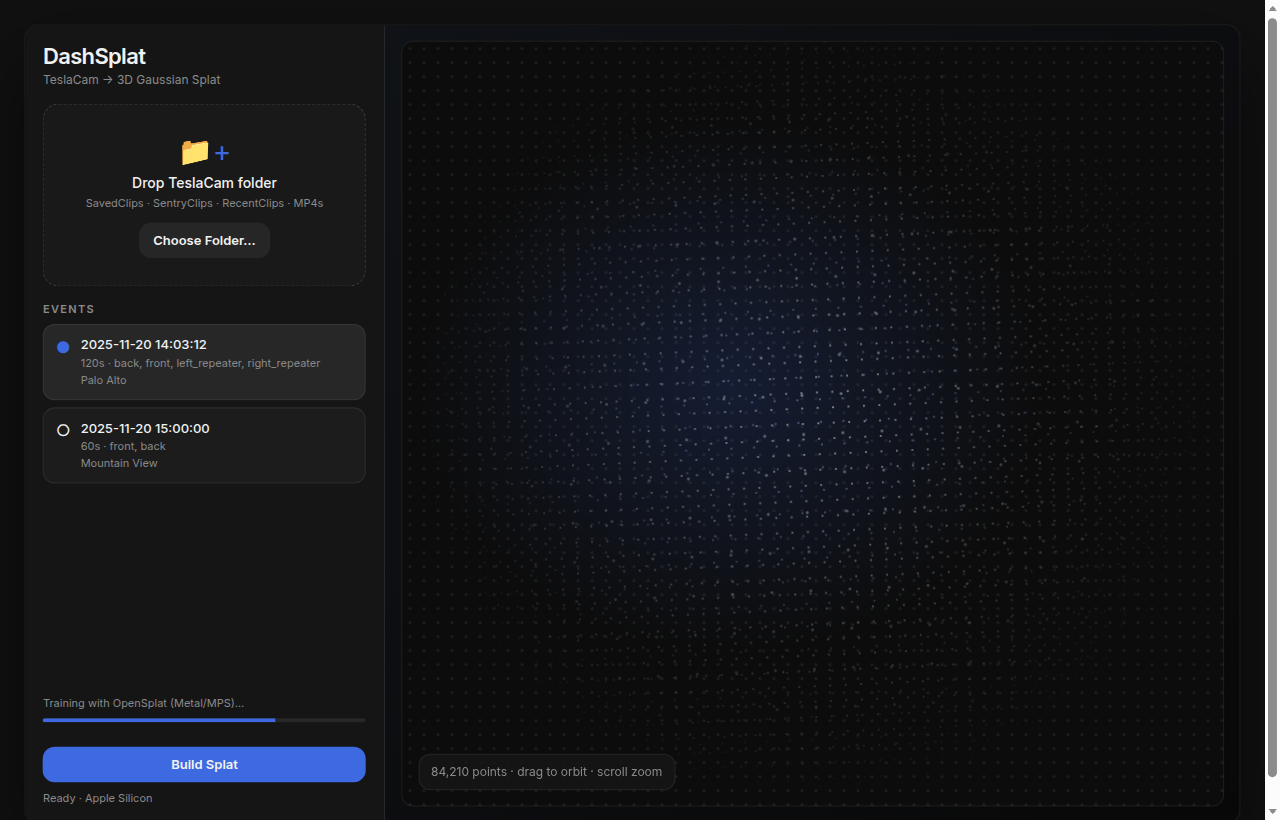
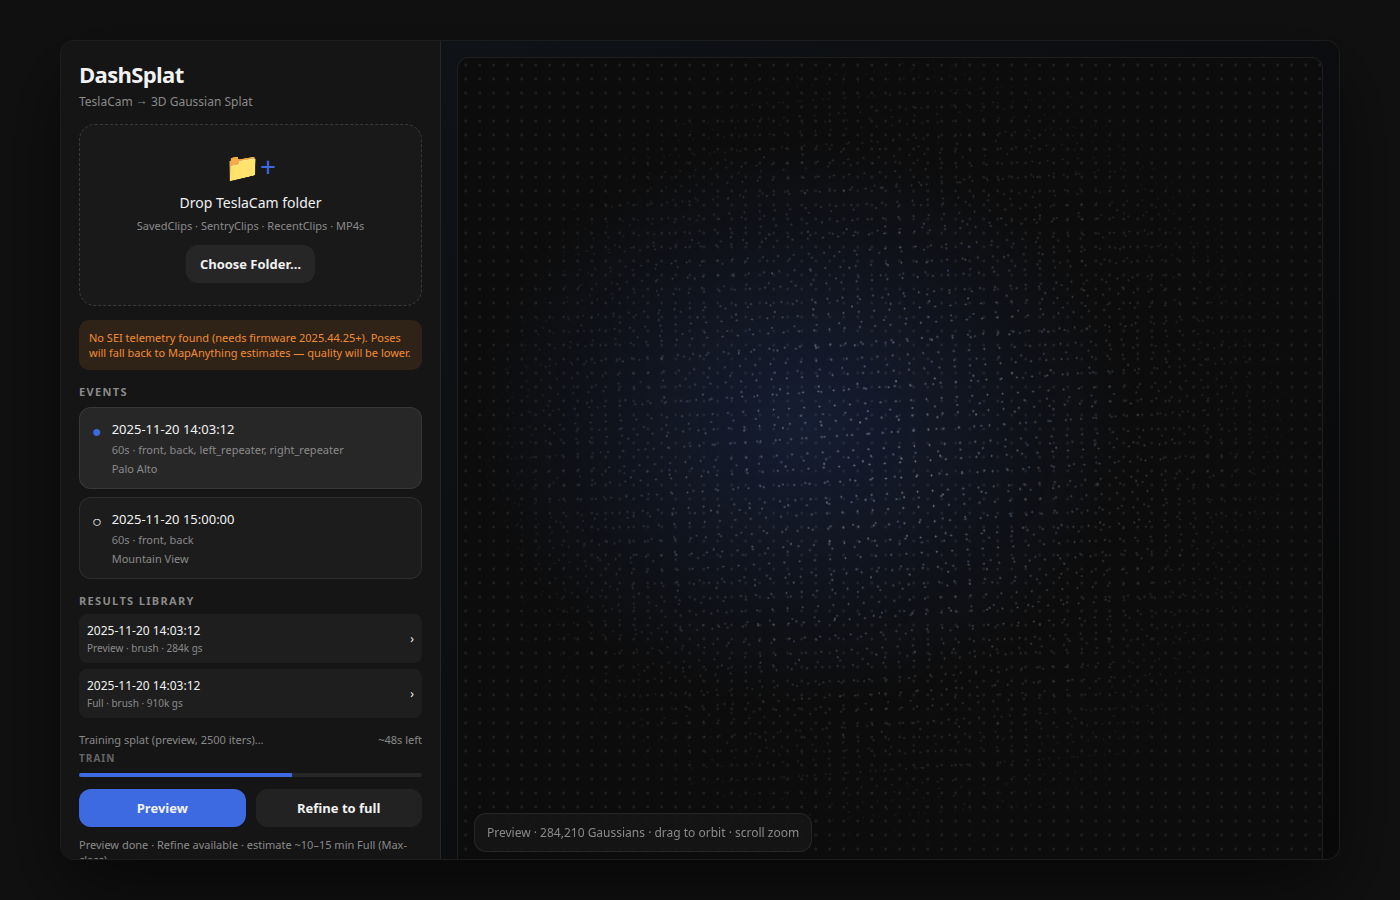
docs: Brush/msplat trainers, mpsplat Apache fix, R44VC0RP credit
Rewrite ARCHITECTURE/README for v1; label timing estimates; credit
R44VC0RP/dashsplat. Update UI mock screenshots for Preview/Refine.

diff --git a/docs/ui-mock.html b/docs/ui-mock.html
@@ -2,7 +2,7 @@
 <html lang="en">
 <head>
   <meta charset="utf-8" />
-  <title>DashSplat UI Mock</title>
+  <title>DashSplat UI Mock — Preview / Refine</title>
   <style>
     :root {
       --bg: #0a0a0a;
@@ -11,7 +11,8 @@
       --text: #f2f2f2;
       --muted: #8a8a8a;
       --accent: #3e6ae1;
-      --font: "SF Pro Display", "Inter", "Segoe UI", system-ui, sans-serif;
+      --warn: #f28c33;
+      --font: "SF Pro Display", "Segoe UI", system-ui, sans-serif;
     }
     * { box-sizing: border-box; }
     body {
@@ -20,19 +21,19 @@
       padding: 24px;
     }
     .window {
-      width: 1280px; height: 800px; display: grid; grid-template-columns: 360px 1fr;
+      width: 1280px; height: 820px; display: grid; grid-template-columns: 380px 1fr;
       background: var(--bg); border-radius: 14px; overflow: hidden;
       box-shadow: 0 30px 80px rgba(0,0,0,0.55); border: 1px solid var(--line);
     }
     .side {
       background: rgba(22,22,22,0.95); border-right: 1px solid var(--line);
-      padding: 18px; display: flex; flex-direction: column; gap: 16px;
+      padding: 18px; display: flex; flex-direction: column; gap: 14px;
     }
     .brand h1 { margin: 0; font-size: 22px; font-weight: 600; letter-spacing: -0.03em; }
     .brand p { margin: 4px 0 0; color: var(--muted); font-size: 12px; }
     .drop {
       border: 1.5px dashed rgba(255,255,255,0.14); border-radius: 16px;
-      padding: 28px 12px; text-align: center; background: rgba(255,255,255,0.02);
+      padding: 22px 12px; text-align: center; background: rgba(255,255,255,0.02);
     }
     .drop .icon { color: var(--accent); font-size: 28px; margin-bottom: 8px; }
     .drop .title { font-size: 14px; font-weight: 500; }
@@ -41,7 +42,9 @@
       display: inline-block; margin-top: 12px; padding: 10px 14px; border-radius: 12px;
       background: rgba(255,255,255,0.06); font-size: 13px; font-weight: 600;
     }
-    .btn.primary { background: var(--accent); width: 100%; text-align: center; }
+    .btn.primary { background: var(--accent); text-align: center; }
+    .btn.row { flex: 1; text-align: center; margin-top: 0; }
+    .btn-row { display: flex; gap: 10px; }
     .sec { font-size: 11px; font-weight: 600; letter-spacing: 0.12em; color: var(--muted); }
     .event {
       display: flex; gap: 10px; padding: 12px; border-radius: 12px;
@@ -51,7 +54,18 @@
     .check { color: var(--accent); }
     .event .label { font-size: 13px; font-weight: 500; }
     .event .meta { font-size: 11px; color: var(--muted); margin-top: 4px; }
+    .lib-item {
+      display: flex; justify-content: space-between; align-items: center;
+      padding: 8px; border-radius: 8px; background: rgba(255,255,255,0.04); margin-top: 6px;
+      font-size: 12px;
+    }
+    .lib-item .meta { font-size: 10px; color: var(--muted); margin-top: 2px; }
     .status { font-size: 11px; color: var(--muted); }
+    .stage { font-size: 10px; font-weight: 600; letter-spacing: 0.1em; color: #666; margin-top: 4px; }
+    .warn {
+      font-size: 11px; color: var(--warn); padding: 10px; border-radius: 10px;
+      background: rgba(242,140,51,0.12);
+    }
     .main {
       position: relative;
       background: linear-gradient(135deg, #0f1217, #080808);
@@ -87,7 +101,8 @@
       border-radius: 12px; padding: 10px 12px;
     }
     .progress { height: 4px; background: rgba(255,255,255,0.08); border-radius: 99px; overflow: hidden; margin: 8px 0 12px; }
-    .progress > span { display: block; width: 72%; height: 100%; background: var(--accent); }
+    .progress > span { display: block; width: 62%; height: 100%; background: var(--accent); }
+    .eta { float: right; font-variant-numeric: tabular-nums; }
   </style>
 </head>
 <body>
@@ -103,13 +118,14 @@
         <div class="sub">SavedClips · SentryClips · RecentClips · MP4s</div>
         <div class="btn">Choose Folder…</div>
       </div>
+      <div class="warn">No SEI telemetry found (needs firmware 2025.44.25+). Poses will fall back to MapAnything estimates — quality will be lower.</div>
       <div>
         <div class="sec">EVENTS</div>
         <div class="event">
           <div class="check">●</div>
           <div>
             <div class="label">2025-11-20 14:03:12</div>
-            <div class="meta">120s · back, front, left_repeater, right_repeater</div>
+            <div class="meta">60s · front, back, left_repeater, right_repeater</div>
             <div class="meta">Palo Alto</div>
           </div>
         </div>
@@ -122,17 +138,38 @@
           </div>
         </div>
       </div>
+      <div>
+        <div class="sec">RESULTS LIBRARY</div>
+        <div class="lib-item">
+          <div>
+            <div>2025-11-20 14:03:12</div>
+            <div class="meta">Preview · brush · 284k gs</div>
+          </div>
+          <div>›</div>
+        </div>
+        <div class="lib-item">
+          <div>
+            <div>2025-11-20 14:03:12</div>
+            <div class="meta">Full · brush · 910k gs</div>
+          </div>
+          <div>›</div>
+        </div>
+      </div>
       <div style="margin-top:auto">
-        <div class="status">Training with OpenSplat (Metal/MPS)…</div>
+        <div class="status">Training splat (preview, 2500 iters)… <span class="eta">~48s left</span></div>
+        <div class="stage">TRAIN</div>
         <div class="progress"><span></span></div>
-        <div class="btn primary">Build Splat</div>
-        <div class="status" style="margin-top:10px">Ready · Apple Silicon</div>
+        <div class="btn-row">
+          <div class="btn primary row">Preview</div>
+          <div class="btn row">Refine to full</div>
+        </div>
+        <div class="status" style="margin-top:10px">Preview done · Refine available · estimate ~10–15 min Full (Max-class)</div>
       </div>
     </aside>
     <main class="main">
       <div class="viewer-card">
         <div class="points"></div>
-        <div class="hud">84,210 points · drag to orbit · scroll zoom</div>
+        <div class="hud">Preview · 284,210 Gaussians · drag to orbit · scroll zoom</div>
       </div>
     </main>
   </div>

diff --git a/README.md b/README.md
@@ -2,19 +2,21 @@
 
 Native macOS app that turns TeslaCam folders into high-quality **3D Gaussian Splats** on Apple Silicon (M1–M4, macOS 14+).
 
-Inspired by the browser tool [aditano/tesla-dashcam-splat](https://github.com/aditano/tesla-dashcam-splat) and Ryan Vogel’s Tesla Reality View.
+Inspired by the browser tool [aditano/tesla-dashcam-splat](https://github.com/aditano/tesla-dashcam-splat) and Ryan Vogel’s Tesla Reality View. Ideas and patterns also draw from [R44VC0RP/dashsplat](https://github.com/R44VC0RP/dashsplat) (Apache-2.0) — credited wherever we reuse approaches (ego masks, mover filtering, per-camera timing).
 
 ## What it does
 
 1. Drop / pick a **TeslaCam** root, `SavedClips`, `SentryClips`, `RecentClips`, a single event folder, or loose MP4s.
-2. Lists every **separate event** (date/time, duration, cameras, location from `event.json`).
-3. For each selected event:
-   - Parses Tesla **SEI telemetry** (firmware 2025.44.25+, [teslamotors/dashcam](https://github.com/teslamotors/dashcam) protobuf).
-   - Builds a local **ENU trajectory**.
-   - Runs **MapAnything** on MLX (`mlx-community/map-anything-apache-fp16`, Apache-2.0) with HW3 intrinsics + poses.
-   - Trains / seeds **3DGS** with **OpenSplat (Metal)** when available, otherwise a MapAnything-seeded export.
-   - Masks movers (motion / YOLO hook).
-4. Orbit the splat in-app and export **`.ply`** / **`.spz`** + `cameras.json`.
+2. Lists every **separate event** (date/time, duration, cameras, location from `event.json`). Multi-select / `--all` queues a batch; events stay strictly separated.
+3. **Preview** (~estimate: 2 min / 1-min event on Max-class), then **Refine to full** (~estimate: 10–15 min). Stage progress + ETA in the sidebar; results land in an in-app library.
+4. Per selected event the pipeline:
+   - Detects encrypted clips / missing SEI with a clear message.
+   - Parses Tesla **SEI telemetry** (firmware 2025.44.25+, [teslamotors/dashcam](https://github.com/teslamotors/dashcam) protobuf) → **ENU** trajectory.
+   - Distance keyframes (Preview ~1/3 m max 60/cam; Full ~1/1 m max 300/cam), skip blurry + hard turns; ~100 m tiles / 20 m overlap.
+   - **MapAnything** on MLX (`map-anything-apache-fp16`, Apache-2.0) with HW3 intrinsics + SEI poses, 16-view multi-camera windows. NC weights are opt-in only.
+   - Masks: HW3 ego-car + skyseg-coreml + RF-DETR movers (parked cars kept). No ultralytics.
+   - Per-camera color/exposure match + time-offset table.
+   - Trains with **Brush** (default, Apache-2.0 Metal) or **msplat** (speed); **seeded** fallback for CI / missing Metal.
 
 ## Install (dev)
 
@@ -33,7 +35,9 @@ python3 -m pytest -q
 # CLI
 export PYTHONPATH=$PWD
 python3 -m dashsplat.cli list ../fixtures/sample_teslacam
-python3 -m dashsplat.cli build ../fixtures/sample_teslacam --all --no-mlx --force-fallback-trainer --out /tmp/dashsplat-out
+python3 -m dashsplat.cli build ../fixtures/sample_teslacam --all --tier preview --no-mlx --force-fallback-trainer --out /tmp/dashsplat-out
+python3 -m dashsplat.cli refine ../fixtures/sample_teslacam --event <ID> --no-mlx --force-fallback-trainer --out /tmp/dashsplat-out
+python3 -m dashsplat.cli bench ../fixtures/sample_teslacam --event <ID> --trainer seeded
 ```
 
 ### macOS app
@@ -51,57 +55,70 @@ brew install xcodegen
 3. Confirm Gatekeeper dialog. Or: System Settings → Privacy & Security → Open Anyway.
 
 First launch runs `dashsplat bootstrap` into  
-`~/Library/Application Support/DashSplat/` (venv + models). Progress shows in the sidebar.
+`~/Library/Application Support/DashSplat/` (venv + models + trainers). Progress shows in the sidebar.
 
 ## CLI
 
 ```bash
-dashsplat <folder> [--event ID] [--all]
 dashsplat list <folder> [--json]
-dashsplat build <folder> --event 2025-11-20_14-03-12 --out ~/Desktop/out
+dashsplat build <folder> [--event ID] [--all] [--tier preview|full] [--trainer brush|msplat|seeded]
+dashsplat refine <folder> --event ID   # forces --tier full
+dashsplat bench <folder> --event ID
 dashsplat bootstrap
 ```
 
-Exit codes: `0` ok · `2` no events · `3` no frames · `130` cancelled · other = tool failure.
+Exit codes: `0` ok · `2` no events · `3` no frames · `4` encrypted / blocked · `130` cancelled · other = tool failure.
 
 ## Trainer choice
 
-**Primary: OpenSplat (Metal/MPS).** It builds reliably with Homebrew PyTorch + Xcode Metal, exports `.ply` and `.spz`, and matches COLMAP/nerfstudio layouts. See [docs/ARCHITECTURE.md](docs/ARCHITECTURE.md).
+**Default: Brush (Apache-2.0, Metal)** with masks + splat cap. **msplat** is the speed option. **seeded** keeps CI/smoke green when Metal trainers are absent. OpenSplat / gsplat-mps (AGPL) are not used. See [docs/ARCHITECTURE.md](docs/ARCHITECTURE.md). Note: **mpsplat** is Apache-2.0; **gsplat-mps** is AGPL.
 
-If `opensplat` is missing, DashSplat still produces a seeded `.ply` / stub `.spz` from MapAnything points so the viewer and exports work.
+## Expected runtime (estimates)
 
-## Expected runtime
+Targets for a ~1-minute four-camera event on an **M-series Max** (base chips slower — UI shows ETA):
 
-Per ~1–2 minute four-camera event on M2/M3 Pro: **~3–10 minutes** with OpenSplat (1.5–3k iters); **&lt;30 s** for the seeded fallback path used in CI/smoke tests.
+| Tier | Estimate |
+| --- | --- |
+| Preview | ~2 min |
+| Full (Refine) | ~10–15 min |
+
+These are **estimates** from research notes, not measured CI numbers. Seeded fallback used in CI is typically &lt;30 s. Measure with `dashsplat bench`.
 
 ## Project layout
 
 ```
 Apps/DashSplat/     SwiftUI front end + WKWebView viewer
-python/dashsplat/   SEI, events, MapAnything, train, CLI
+python/dashsplat/   SEI, events, MapAnything, trainers, masks, CLI
 viewer/viewer.html  Orbit / drag splat viewer
 scripts/            build_app.sh, run_tests.sh
 .github/workflows/  macos-15 CI (pytest + xcodebuild + .app zip; app still targets macOS 14+)
+docs/research/      Method notes (2026-11-22 / 2026-11-23)
 ```
 
 ## Screenshots
 
-![App UI](docs/screenshots/app-main.png)
+![Preview / Refine flow](docs/screenshots/app-main.png)
+
+![Results library](docs/screenshots/app-library.png)
 
 ![Splat viewer (orbit)](docs/screenshots/viewer-orbit.png)
 
-UI chrome matches the Tesla-style dark web tool; the viewer shot is a live WebGL orbit of a smoke-pipeline `.ply` (7k seeded Gaussians). The unsigned `.app` zip is produced by the macOS CI job (`DashSplat-unsigned` artifact).
+UI chrome matches the Tesla-style dark web tool; the viewer shot is a live WebGL orbit of a smoke-pipeline `.ply`. The unsigned `.app` zip is produced by the macOS CI job (`DashSplat-unsigned` artifact).
 
-## Limitations (honest v0)
+## Limitations (honest v1)
 
-- OpenSplat must be installed separately for full GPU training; CI uses the seeded fallback.
-- YOLO Core ML weights are optional; default mask is frame-differencing.
-- Moving-object **per-track splat groups** are stubbed (static-first path ships).
-- Stub `.spz` is DashSplat JSON-gzip when OpenSplat is absent — real Niantic SPZ comes from OpenSplat.
+- Brush / msplat must be bootstrapped on a Mac; CI uses the **seeded** fallback.
+- Skyseg Core ML + RF-DETR weights are optional; geometric / stub masks run when models are missing.
+- Moving-object **per-track splat groups** remain stubbed (static-first path ships; parked cars kept).
+- Stub `.spz` is DashSplat JSON-gzip when Metal trainers do not emit Niantic SPZ.
+- Held-out **PSNR in `bench` is a geometric proxy**, not photometric render PSNR.
 - HW3 extrinsics are approximate; edit `python/dashsplat/cameras.py`.
+- Preview/Refine ETA priors are estimates until local `bench` calibrates them.
+- Real TeslaCam footage (encrypted clips, HW3 color, multi-event library UX) needs on-device validation — not covered by CI fixtures.
 
 ## License notes
 
 - App + pipeline: see repository license.
-- MapAnything Apache weights: Apache-2.0 (`mlx-community/map-anything-apache-fp16`).
-- OpenSplat: its own license (AGPL for some Metal pieces) — install separately if you use it.
+- MapAnything Apache weights: Apache-2.0 (`mlx-community/map-anything-apache-fp16`). NC weights: personal-use toggle only.
+- Brush / msplat / mpsplat: Apache-2.0. OpenSplat and ultralytics are **not** dependencies.
+- Credit: [R44VC0RP/dashsplat](https://github.com/R44VC0RP/dashsplat) (Apache-2.0).

diff --git a/docs/ARCHITECTURE.md b/docs/ARCHITECTURE.md
@@ -8,50 +8,77 @@ TeslaCam folder
     ▼
 SwiftUI app (DashSplat)  ──subprocess──►  dashsplat CLI (uv Python env)
     │                                         │
-    │                                         ├─ events.py      group clips / event.json
-    │                                         ├─ sei.py         Tesla protobuf SEI
-    │                                         ├─ trajectory.py  GPS→ENU poses
-    │                                         ├─ frames.py      ffmpeg / placeholders
-    │                                         ├─ mapanything.py MLX MapAnything (Apache)
-    │                                         ├─ yolo_mask.py   motion / YOLO masks
-    │                                         └─ train_splat.py OpenSplat or seeded PLY
+    │                                         ├─ events.py         group clips / event.json
+    │                                         ├─ sei.py / detect.py  Tesla SEI + encrypted-clip check
+    │                                         ├─ trajectory.py     GPS→ENU poses
+    │                                         ├─ keyframes.py      distance keyframes, blur/turn skip
+    │                                         ├─ tiles.py          ~100 m route tiles / 20 m overlap
+    │                                         ├─ frames.py         ffmpeg + timing_offsets
+    │                                         ├─ color_match.py    per-camera affine to front
+    │                                         ├─ masks/            ego + skyseg + RF-DETR movers
+    │                                         ├─ mapanything.py    MLX MapAnything (Apache; NC opt-in)
+    │                                         ├─ trainers/         Brush (default) | msplat | seeded
+    │                                         └─ bench.py          held-out proxy PSNR + stage timings
     ▼
 WKWebView orbit viewer  ◄── splat.ply / splat.spz + cameras.json
+Results library         ◄── jobs/<folder>/library/<event>/<preview|full>/
 ```
 
-## Trainer choice: OpenSplat
+## Trainer choice (no OpenSplat)
 
-**Chosen primary trainer:** [WebODM/OpenSplat](https://github.com/WebODM/OpenSplat) (Metal/MPS).
+OpenSplat was removed (AGPL-3.0). Trainers are pluggable via `dashsplat.trainers`:
 
-| Option | Pros | Cons |
+| Trainer | License | Role |
 | --- | --- | --- |
-| **OpenSplat** | Native Metal, `.ply` + `.spz`, COLMAP ingest, battle-tested on M1–M4 | Needs Xcode Metal toolchain; binary install |
-| gsplat-mps / mpsplat | Python-native | AGPL via OpenSplat Metal port; less maintained |
-| MetalSplat | MIT, pure Python Metal shaders | Newer; no `.spz` exporter yet |
+| **Brush** (default) | Apache-2.0 | Native Metal, image masks, splat cap |
+| **msplat** | Apache-2.0 | Speed option (Metal) |
+| **seeded** | in-repo | MapAnything-point fallback for CI / no-Metal |
 
-**Fallback:** when `opensplat` is not on `PATH`, the pipeline seeds anisotropic Gaussians from MapAnything points and writes `.ply` + a stub `.spz`. CI and first-run smoke tests always exercise this path.
+**License clarification:** [zacsmms/mpsplat](https://github.com/zacsmms/mpsplat) is **Apache-2.0**. [iffyloop/gsplat-mps](https://github.com/iffyloop/gsplat-mps) is AGPL and is **not** used.
+
+Bootstrap installs trainers into `~/Library/Application Support/DashSplat/{venv,bin}` on first run (same pattern as models).
+
+## Quality tiers (Preview → Refine)
+
+No modes picker beyond this flow:
+
+| Tier | Keyframe spacing | Cap / cam | Train iters | Splat cap | ETA prior (Max-class, estimate) |
+| --- | --- | --- | --- | --- | --- |
+| Preview | ~1 / 3 m | 60 | 2500 | 300k | ~2 min / 1-min event |
+| Full | ~1 / 1 m | 300 | 7000 | 1M | ~10–15 min / 1-min event |
+
+ETA priors are labeled estimates; base chips are slower. The UI shows stage progress + remaining-time estimate. Route tiles are ~100 m with 20 m overlap.
 
 ## MapAnything
 
-Model: [`mlx-community/map-anything-apache-fp16`](https://huggingface.co/mlx-community/map-anything-apache-fp16) (Apache-2.0) via `mlx-vlm`.
-Telemetry poses + HW3 intrinsics are passed when SEI is present; otherwise MapAnything estimates poses.
+Default: [`mlx-community/map-anything-apache-fp16`](https://huggingface.co/mlx-community/map-anything-apache-fp16) (Apache-2.0).
+
+Always passes HW3 intrinsics + SEI poses when available, 16-view windows mixing all 4 cameras, confidence filtering, per-tile init cloud. CC BY-NC weights are an **off-by-default** personal-use toggle (`--nc-mapanything`).
+
+## Masks
+
+1. Fixed per-camera HW3 ego-car masks  
+2. Sky via `skyseg-coreml` (MIT) when available; geometric fallback otherwise  
+3. Moving objects via RF-DETR (Apache-2.0); parked cars kept static  
+
+No ultralytics / AGPL YOLO.
 
 ## First-run bootstrap
 
-`dashsplat bootstrap` (also triggered by the app) creates:
+`dashsplat bootstrap` creates:
 
-`~/Library/Application Support/DashSplat/{venv,models,cache,jobs}`
+`~/Library/Application Support/DashSplat/{venv,models,cache,jobs,bin}`
 
-## Expected runtime (Apple Silicon)
+## Expected runtime (Apple Silicon) — estimates only
 
-Rough guide for a ~60–120 s four-camera event on M2/M3 Pro:
+Targets for a ~1-minute four-camera event on an **M-series Max** (base chips slower):
 
-| Stage | Time |
-| --- | --- |
-| SEI + frame extract | 5–20 s |
-| MapAnything (4–24 views) | 2–15 s |
-| YOLO / motion mask | 5–30 s |
-| OpenSplat 1.5–3k iters | 2–8 min |
-| Seeded fallback only | &lt; 10 s |
+| Stage | Preview (est.) | Full (est.) |
+| --- | --- | --- |
+| Ingest + keyframes | seconds | seconds |
+| Masks | seconds | tens of seconds |
+| MapAnything | tens of seconds | tens of seconds |
+| Train (Brush/msplat) | ~1–2 min total pipeline | ~10–15 min total pipeline |
+| Seeded fallback only | &lt; 10 s | &lt; 10 s |
 
-Longer SavedClips (multi-minute stitches) scale roughly linearly with selected frames.
+Numbers above are **estimates** from the 2026-11-23 research note, not measured CI timings. Use `dashsplat bench <folder> --event ID` for measured stage timings + held-out proxy PSNR.
